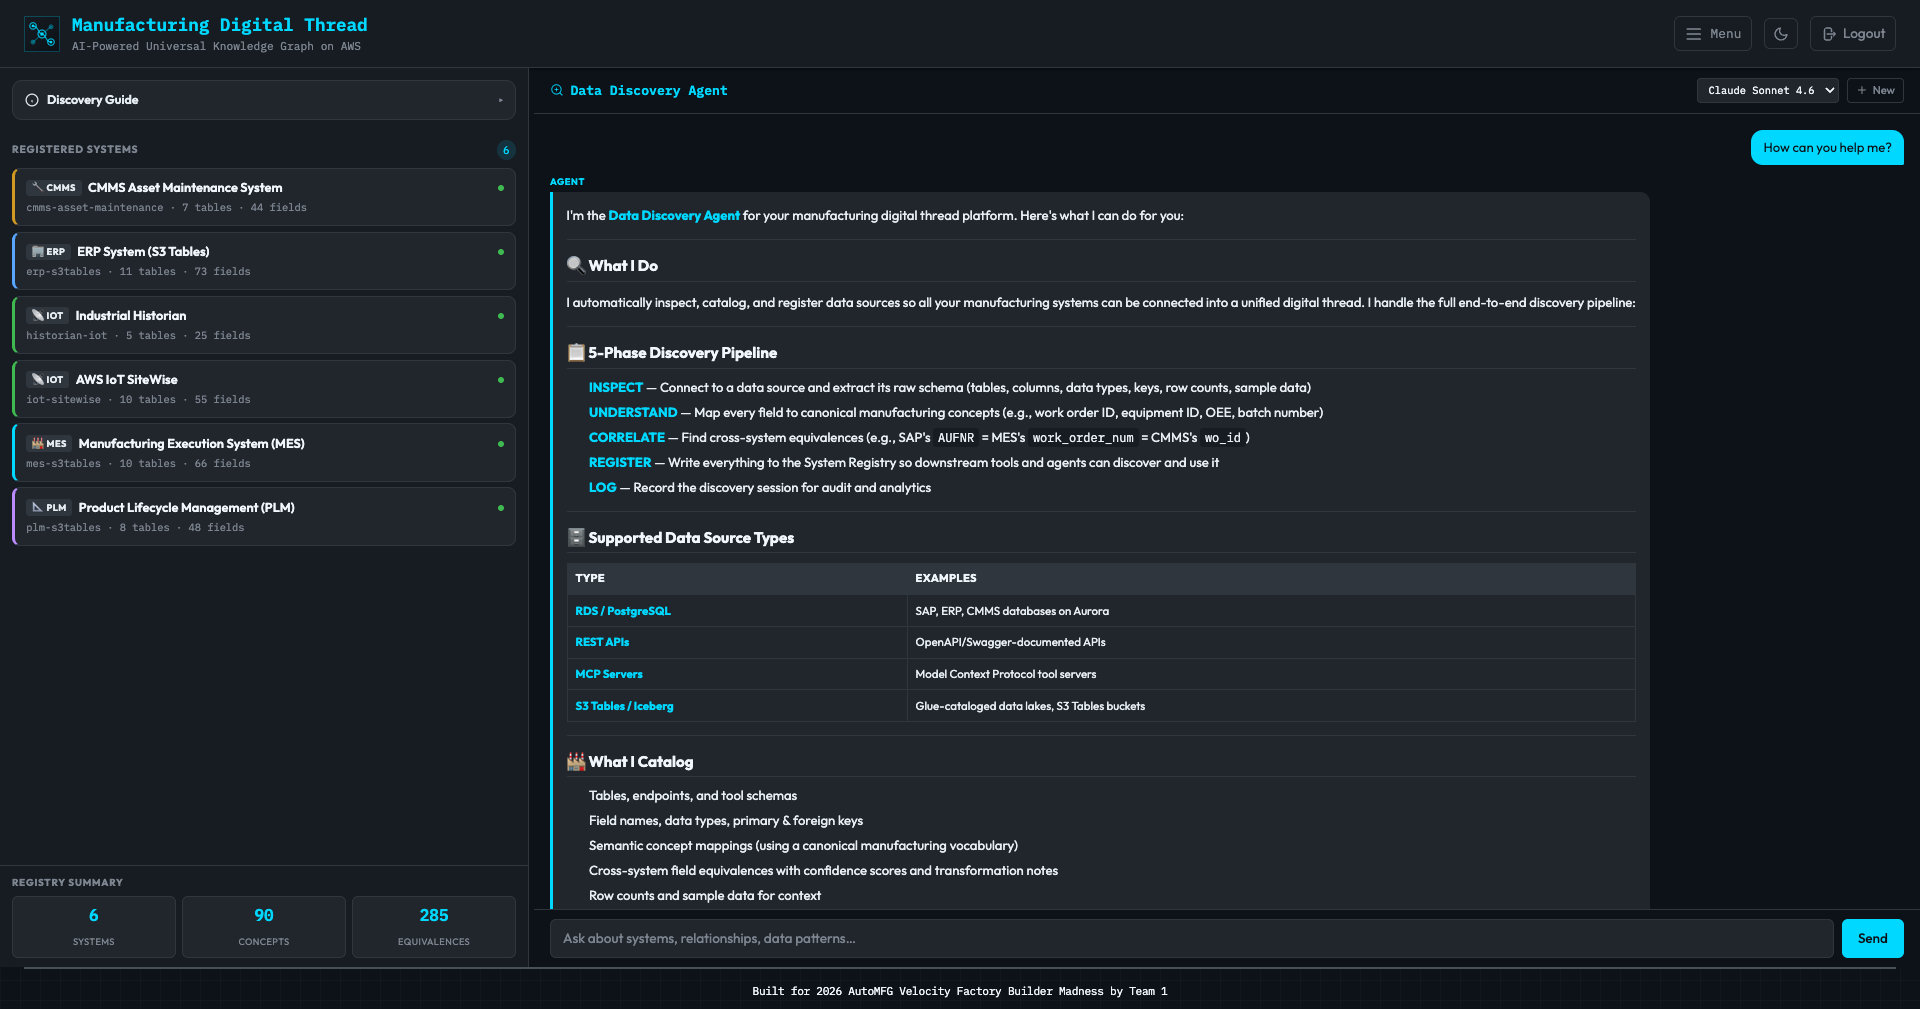
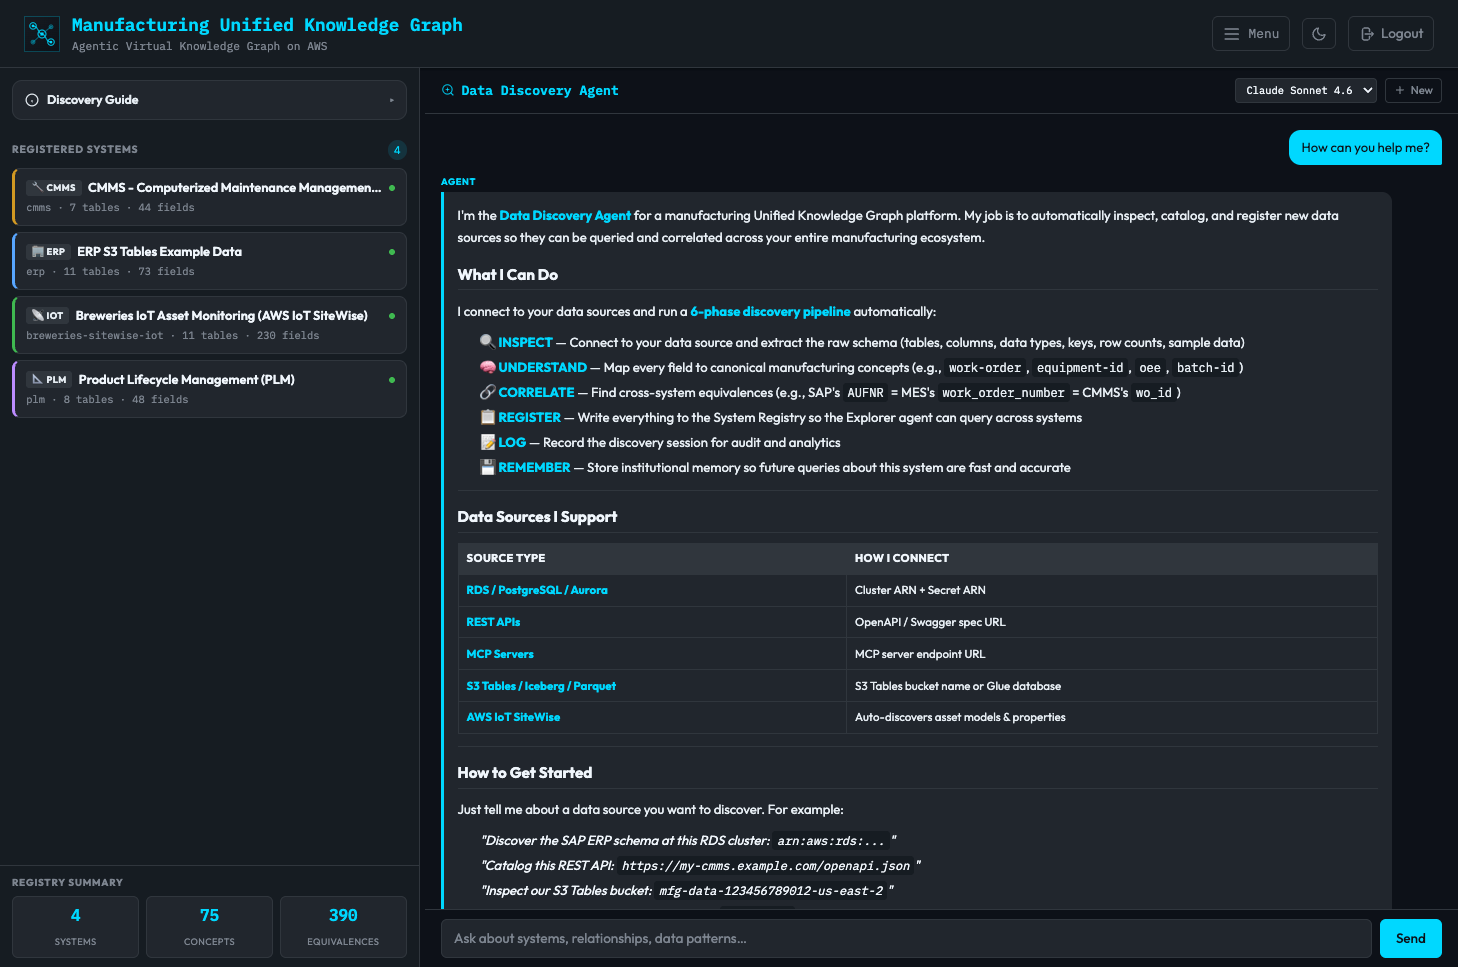
Rename Universal to Unified Knowledge Graph (#13)
* agent: rename Universal to Unified Knowledge Graph in prompts
* cdk: rename Universal to Unified Knowledge Graph in stack descriptions
* chatapp: rename Universal to Unified Knowledge Graph across UI and routes
* lambda: rename Universal to Unified Knowledge Graph in tool schema
* docs: rename Universal to Unified Knowledge Graph in README
* upgrade kiro hook format
* update screenshots

diff --git a/chatapp/app/templates/components/ukg_sidebar.html b/chatapp/app/templates/components/ukg_sidebar.html
@@ -1,10 +1,10 @@
-{# Universal Knowledge Graph sidebar component — System Registry + Canonical Vocabulary #}
+{# Unified Knowledge Graph sidebar component — System Registry + Canonical Vocabulary #}
 
 <div id="ukg-sidebar-inner" class="w-96 border-l flex flex-col h-full transition-colors duration-200"
      style="background: var(--sidebar-bg); border-color: var(--sidebar-border);">
     <div class="flex items-center justify-between px-4 py-4 border-b transition-colors duration-200"
          style="background: var(--sidebar-header-bg); border-color: var(--sidebar-border);">
-        <h2 class="text-lg font-semibold transition-colors duration-200" style="color: var(--sidebar-text);">Universal Knowledge Graph</h2>
+        <h2 class="text-lg font-semibold transition-colors duration-200" style="color: var(--sidebar-text);">Unified Knowledge Graph</h2>
         <div class="flex items-center gap-2">
             <button id="ukg-theme-toggle" onclick="toggleUkgTheme()" class="p-1.5 rounded transition-colors hover:opacity-80" style="color: var(--sidebar-text-muted);" aria-label="Toggle theme" title="Toggle light/dark theme">
                 <svg id="ukg-theme-icon-sun" class="w-4 h-4 hidden" fill="none" viewBox="0 0 24 24" stroke="currentColor" stroke-width="2">
@@ -14,12 +14,12 @@
                     <path stroke-linecap="round" stroke-linejoin="round" d="M20.354 15.354A9 9 0 018.646 3.646 9.003 9.003 0 0012 21a9.003 9.003 0 008.354-5.646z" />
                 </svg>
             </button>
-            <button id="ukg-refresh-btn" onclick="refreshUkg(true)" class="p-1.5 rounded transition-colors disabled:opacity-50 disabled:cursor-not-allowed hover:opacity-80" style="color: var(--sidebar-text-muted);" aria-label="Refresh universal knowledge graph" title="Refresh universal knowledge graph">
+            <button id="ukg-refresh-btn" onclick="refreshUkg(true)" class="p-1.5 rounded transition-colors disabled:opacity-50 disabled:cursor-not-allowed hover:opacity-80" style="color: var(--sidebar-text-muted);" aria-label="Refresh Unified Knowledge Graph" title="Refresh Unified Knowledge Graph">
                 <svg id="ukg-refresh-icon" class="w-4 h-4 transition-transform" fill="none" viewBox="0 0 24 24" stroke="currentColor" stroke-width="2">
                     <path stroke-linecap="round" stroke-linejoin="round" d="M4 4v5h.582m15.356 2A8.001 8.001 0 004.582 9m0 0H9m11 11v-5h-.581m0 0a8.003 8.003 0 01-15.357-2m15.357 2H15" />
                 </svg>
             </button>
-            <button onclick="toggleUkgSidebar()" class="p-1.5 rounded transition-colors hover:opacity-80" style="color: var(--sidebar-text-muted);" aria-label="Collapse universal knowledge graph" title="Collapse sidebar">
+            <button onclick="toggleUkgSidebar()" class="p-1.5 rounded transition-colors hover:opacity-80" style="color: var(--sidebar-text-muted);" aria-label="Collapse Unified Knowledge Graph" title="Collapse sidebar">
                 <svg class="w-4 h-4" fill="none" viewBox="0 0 24 24" stroke="currentColor" stroke-width="2">
                     <path stroke-linecap="round" stroke-linejoin="round" d="M13 5l7 7-7 7M5 5l7 7-7 7" />
                 </svg>

diff --git a/cdk/bin/app.ts b/cdk/bin/app.ts
@@ -22,19 +22,19 @@ const env: cdk.Environment = {
   region: config.region || process.env.CDK_DEFAULT_REGION || 'us-east-1',
 };
 
-const foundationStack = new FoundationStack(app, `${config.appName}-Foundation`, { env, description: 'Universal Knowledge Graph: Cognito, DynamoDB, IAM, Secrets', stackName: `${config.appName}-foundation` });
-const bedrockStack = new BedrockStack(app, `${config.appName}-Bedrock`, { env, description: 'Universal Knowledge Graph: Bedrock Guardrail, Knowledge Base, Memory', stackName: `${config.appName}-bedrock` });
+const foundationStack = new FoundationStack(app, `${config.appName}-Foundation`, { env, description: 'Unified Knowledge Graph: Cognito, DynamoDB, IAM, Secrets', stackName: `${config.appName}-foundation` });
+const bedrockStack = new BedrockStack(app, `${config.appName}-Bedrock`, { env, description: 'Unified Knowledge Graph: Bedrock Guardrail, Knowledge Base, Memory', stackName: `${config.appName}-bedrock` });
 bedrockStack.addDependency(foundationStack);
-const gatewayStack = new GatewayStack(app, `${config.appName}-Gateway`, { env, description: 'Universal Knowledge Graph: AgentCore Gateway with shared registry tools', stackName: `${config.appName}-gateway` });
+const gatewayStack = new GatewayStack(app, `${config.appName}-Gateway`, { env, description: 'Unified Knowledge Graph: AgentCore Gateway with shared registry tools', stackName: `${config.appName}-gateway` });
 gatewayStack.addDependency(foundationStack);
-const agentStack = new AgentStack(app, `${config.appName}-Agent`, { env, description: 'Universal Knowledge Graph: Agent infrastructure and runtime', stackName: `${config.appName}-agent` });
+const agentStack = new AgentStack(app, `${config.appName}-Agent`, { env, description: 'Unified Knowledge Graph: Agent infrastructure and runtime', stackName: `${config.appName}-agent` });
 agentStack.addDependency(bedrockStack);
 agentStack.addDependency(foundationStack);
 agentStack.addDependency(gatewayStack);
-const chatAppStack = new ChatAppStack(app, `${config.appName}-ChatApp`, { env, description: 'Universal Knowledge Graph: ECS / Lambda chat application', stackName: `${config.appName}-chatapp` });
+const chatAppStack = new ChatAppStack(app, `${config.appName}-ChatApp`, { env, description: 'Unified Knowledge Graph: ECS / Lambda chat application', stackName: `${config.appName}-chatapp` });
 chatAppStack.addDependency(foundationStack);
 chatAppStack.addDependency(agentStack);
-const workflowSchedulerStack = new WorkflowSchedulerStack(app, `${config.appName}-WorkflowScheduler`, { env, description: 'Universal Knowledge Graph: Workflow scheduler Lambda + EventBridge', stackName: `${config.appName}-workflow-scheduler` });
+const workflowSchedulerStack = new WorkflowSchedulerStack(app, `${config.appName}-WorkflowScheduler`, { env, description: 'Unified Knowledge Graph: Workflow scheduler Lambda + EventBridge', stackName: `${config.appName}-workflow-scheduler` });
 workflowSchedulerStack.addDependency(foundationStack);
 workflowSchedulerStack.addDependency(agentStack);
 

diff --git a/cdk/lib/foundation-stack.ts b/cdk/lib/foundation-stack.ts
@@ -340,7 +340,7 @@ export class FoundationStack extends cdk.Stack {
                 PutRequest: {
                   Item: {
                     setting_key: { S: 'app_title' },
-                    setting_value: { S: 'Manufacturing Universal Knowledge Graph' },
+                    setting_value: { S: 'Manufacturing Unified Knowledge Graph' },
                     setting_type: { S: 'text' },
                     description: { S: 'Application title displayed in header' },
                     updated_at: { S: '2025-01-01T00:00:00.000Z' },

diff --git a/chatapp/app/static/js/ukg.js b/chatapp/app/static/js/ukg.js
@@ -1,8 +1,8 @@
 /**
- * Universal Knowledge Graph sidebar JavaScript.
+ * Unified Knowledge Graph sidebar JavaScript.
  *
  * Handles theme toggling, tab switching, data loading, and rendering
- * for the Universal Knowledge Graph sidebar (Systems + Vocabulary tabs).
+ * for the Unified Knowledge Graph sidebar (Systems + Vocabulary tabs).
  */
 
 // ============================================================================

diff --git a/chatapp/app/templates/admin/discover.html b/chatapp/app/templates/admin/discover.html
@@ -1,6 +1,6 @@
 {% extends "base.html" %}
 
-{% block title %}{{ app_title if app_title is defined else 'Universal Knowledge Graph' }} — Data Discovery{% endblock %}
+{% block title %}{{ app_title if app_title is defined else 'Unified Knowledge Graph' }} — Data Discovery{% endblock %}
 
 {% block favicon %}
 <link rel="icon" type="image/svg+xml" href="{{ logo_url if logo_url is defined else '/static/favicon.svg' }}">

diff --git a/chatapp/app/templates/home.html b/chatapp/app/templates/home.html
@@ -1,6 +1,6 @@
 {% extends "base.html" %}
 
-{% block title %}{{ app_title if app_title is defined else 'Universal Knowledge Graph' }} — Control Panel{% endblock %}
+{% block title %}{{ app_title if app_title is defined else 'Unified Knowledge Graph' }} — Control Panel{% endblock %}
 
 {% block favicon %}
 <link rel="icon" type="image/svg+xml" href="{{ logo_url if logo_url is defined else '/static/favicon.svg' }}">

diff --git a/chatapp/app/templates/workflows.html b/chatapp/app/templates/workflows.html
@@ -1,6 +1,6 @@
 {% extends "base.html" %}
 
-{% block title %}Workflows — {{ app_title if app_title is defined else 'Universal Knowledge Graph' }}{% endblock %}
+{% block title %}Workflows — {{ app_title if app_title is defined else 'Unified Knowledge Graph' }}{% endblock %}
 
 {% block favicon %}
 <link rel="icon" type="image/svg+xml" href="{{ logo_url if logo_url is defined else '/static/favicon.svg' }}">

diff --git a/chatapp/app/static/js/home.js b/chatapp/app/static/js/home.js
@@ -1,5 +1,5 @@
 /**
- * Home page — Universal Knowledge Graph Control Panel
+ * Home page — Unified Knowledge Graph Control Panel
  * Loads systems, graph, vocabulary, and provides inline chat.
  *
  * LocalStorage keys (shared across pages that use the chat API):

diff --git a/chatapp/app/routes/ukg.py b/chatapp/app/routes/ukg.py
@@ -1,4 +1,4 @@
-"""Universal Knowledge Graph API routes for the sidebar and admin views.
+"""Unified Knowledge Graph API routes for the sidebar and admin views.
 
 Provides JSON endpoints for:
 - /api/registry/systems — registered systems (sidebar)
@@ -25,7 +25,7 @@ ukg_router = APIRouter(prefix="/api/registry", tags=["ukg"])
 
 @ukg_router.get("/systems")
 async def get_systems(request: Request):
-    """Get all registered systems for the Universal Knowledge Graph sidebar."""
+    """Get all registered systems for the Unified Knowledge Graph sidebar."""
     config = get_config()
     if not config.registry_table_name:
         return JSONResponse(content={"systems": [], "count": 0, "configured": False})

diff --git a/agent-explorer/explorer.py b/agent-explorer/explorer.py
@@ -12,7 +12,7 @@ _DEFAULT_MODEL_ID = os.getenv("DEFAULT_MODEL_ID", "global.anthropic.claude-sonne
 
 EXPLORER_MODEL = os.getenv("EXPLORER_MODEL_ID", _DEFAULT_MODEL_ID)
 
-EXPLORER_PROMPT = """You are the Universal Knowledge Graph Data Explorer Agent for a global manufacturer.
+EXPLORER_PROMPT = """You are the Unified Knowledge Graph Data Explorer Agent for a global manufacturer.
 
 You answer questions spanning ERP, MES, CMMS, PLM, and IoT systems across multiple
 plants and facilities. You have ZERO hardcoded knowledge of which systems exist, what

diff --git a/chatapp/app/templates_config.py b/chatapp/app/templates_config.py
@@ -40,7 +40,7 @@ async def init_template_globals():
         # Set defaults using centralized functions
         default_palette = generate_color_palette(DEFAULT_PRIMARY_COLOR)
         templates.env.globals.update({
-            "app_title": "Manufacturing Universal Knowledge Graph",
+            "app_title": "Manufacturing Unified Knowledge Graph",
             "app_subtitle": "Agentic Virtual Knowledge Graph on AWS",
             "logo_url": "/static/favicon.svg",
             "chat_logo_url": "/static/chat-placeholder.svg",

diff --git a/agent-discovery/my_agent.py b/agent-discovery/my_agent.py
@@ -75,7 +75,7 @@ def _render_progress(payload: dict) -> str | None:
     return None
 
 DISCOVERY_PROMPT = """\
-You are the Data Discovery Agent for a manufacturing universal knowledge graph platform. Your job is to \
+You are the Data Discovery Agent for a manufacturing Unified Knowledge Graph platform. Your job is to \
 inspect new data sources, catalog their schema, infer semantic mappings, discover \
 cross-system equivalences, and register everything in the System Registry.
 
